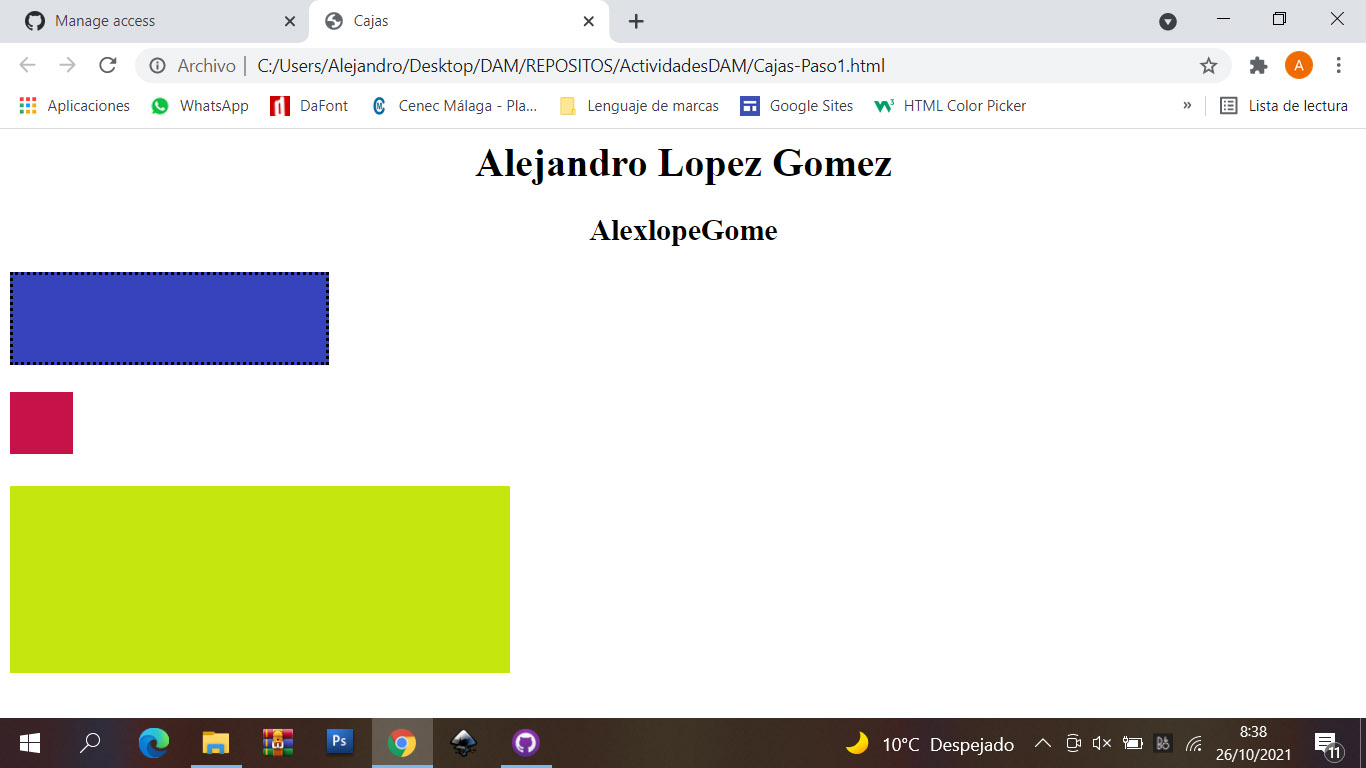
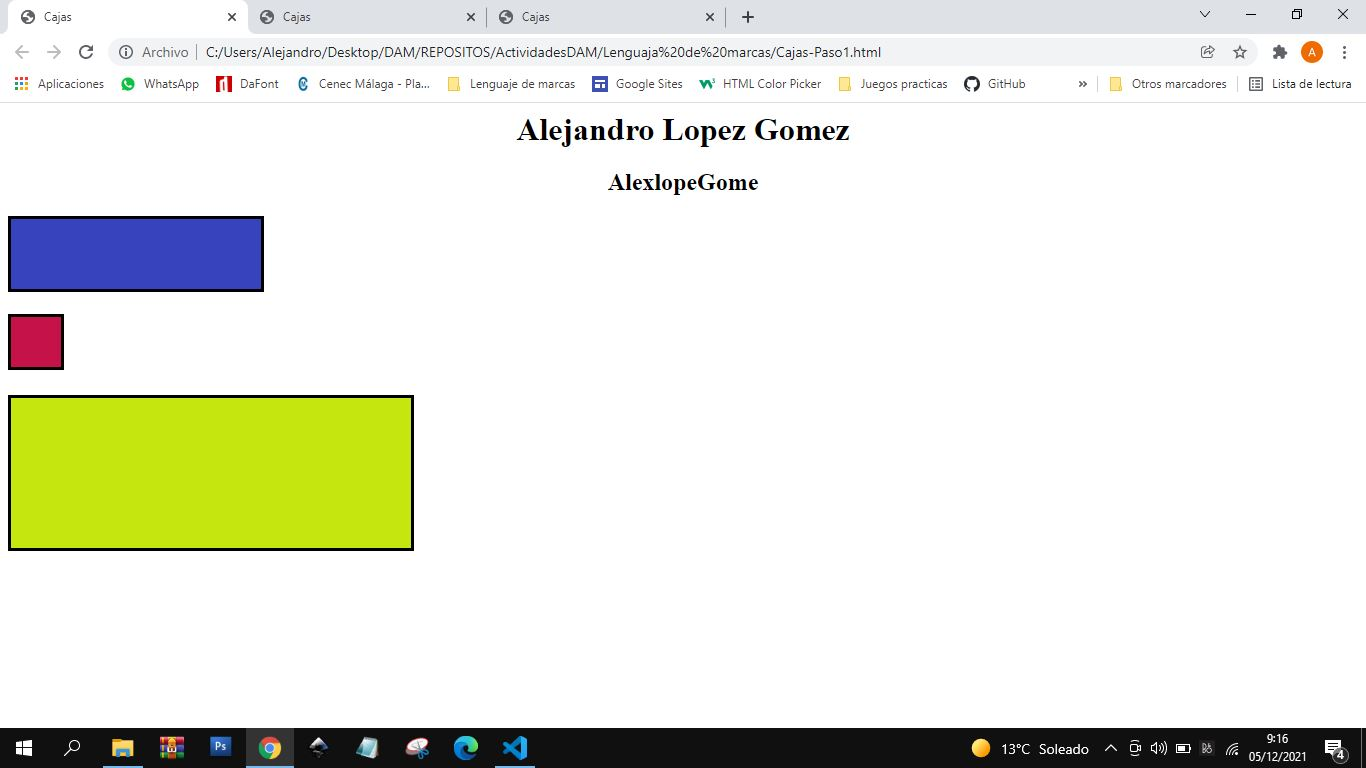
ok
ok

diff --git a/Lenguaja de marcas/Cajas-Paso2.html b/Lenguaja de marcas/Cajas-Paso2.html
@@ -19,7 +19,7 @@
 
 		#caja1{
 			display: inline-block;
-			background-color: blue;
+			background-color: rgb(197, 18, 72);
 			height: 50px;
 			width: 50px;
 			margin-left: 100px;
@@ -28,7 +28,7 @@
 		}
 		#caja2{
 			display: inline-block;
-			background-color: rgb(252, 14, 14);
+			background-color: rgb(54, 67, 189);;
 			height: 100px;
 			width: 100px;
 			margin-left: 20px;
@@ -37,7 +37,7 @@
 		}
 		#caja3{
 			display: inline-block;
-			background-color: rgb(220, 243, 10);
+			background-color: rgb(197, 230, 14);
 			height: 250px;
 			width: 200px;
 			margin-left: 20px;

diff --git a/Lenguaja de marcas/Cajas-Paso3.html b/Lenguaja de marcas/Cajas-Paso3.html
@@ -18,7 +18,7 @@
 		}
 		#caja{
 			margin: 30px;
-			background-color: rgb(220, 243, 10);
+			background-color: rgb(197, 230, 14);
 			height: 100px;
 			width: 300px;
 			padding: 37px 17px 112px 0px;	
@@ -27,7 +27,7 @@
 		}
 
 		#caja1{
-			background-color: blue;
+			background-color: rgb(54, 67, 189);
 			height: 50px;
 			width: 200px;
 			margin-left: 50px;
@@ -37,7 +37,7 @@
 		}
 		#caja2{
 			
-			background-color: rgb(252, 14, 14);
+			background-color: rgb(197, 18, 72);
 			height: 30px;
 			width: 40px;
 			margin-left: 50;

diff --git a/Lenguaja de marcas/Cajas-Paso1.html b/Lenguaja de marcas/Cajas-Paso1.html
@@ -26,7 +26,7 @@
 			height: 50px;
 			width: 50px;
 			border-style: solid;
-
+			rgb(54, 67, 189)
 	
 			
 		}
